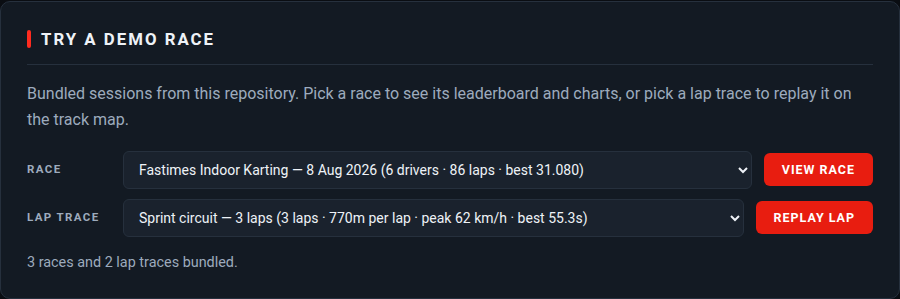
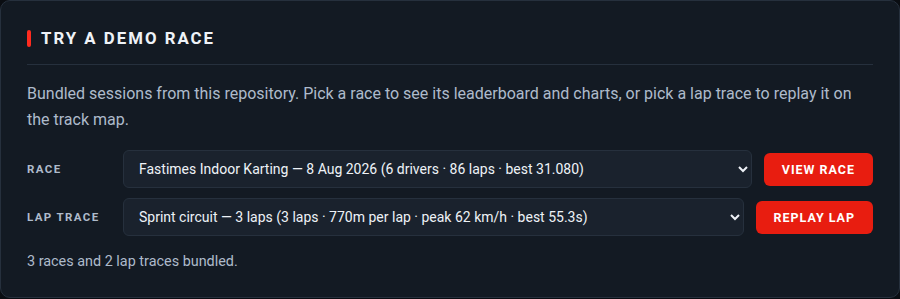
fix(ui): raise small-text legibility in the dark theme
A review pass on the rendered page flagged the smallest text as marginal.

- Chart axis ticks 10px to 11px and chart legends 12px to 13px; the 60px
  left margin still fits the widest tick label.
- Secondary text lightened to #aebbcb, taking it from 7.5:1 to 9.0:1 on a
  card surface and 10.0:1 on the page background.
- Leaderboard values 0.88rem to 0.92rem and a slightly larger tagline.

diff --git a/src/ui/charts.js b/src/ui/charts.js
@@ -254,7 +254,7 @@ function renderLapTraceChart(container, session, stats, colors) {
     const legendText = document.createElementNS('http://www.w3.org/2000/svg', 'text');
     legendText.setAttribute('x', legendX + 15);
     legendText.setAttribute('y', legendY + 5);
-    legendText.setAttribute('font-size', '12px');
+    legendText.setAttribute('font-size', '13px');
     legendText.classList.add('chart-legend-label');
     legendText.textContent = driver;
     svg.appendChild(legendText);
@@ -269,7 +269,7 @@ function renderLapTraceChart(container, session, stats, colors) {
      text.setAttribute('x', margin.left - 5);
      text.setAttribute('y', y + 4);
      text.setAttribute('text-anchor', 'end');
-     text.setAttribute('font-size', '10px');
+     text.setAttribute('font-size', '11px');
      text.classList.add('chart-tick');
      text.textContent = formatTime(t);
      svg.appendChild(text);
@@ -284,7 +284,7 @@ function renderLapTraceChart(container, session, stats, colors) {
      text.setAttribute('x', x);
      text.setAttribute('y', margin.top + chartHeight + 15);
      text.setAttribute('text-anchor', 'middle');
-     text.setAttribute('font-size', '10px');
+     text.setAttribute('font-size', '11px');
      text.classList.add('chart-tick');
      text.textContent = idx + 1;
      svg.appendChild(text);
@@ -466,7 +466,7 @@ function renderSectorDeltaChart(container, session, stats, driverA, driverB) {
      text.setAttribute('x', margin.left - 5);
      text.setAttribute('y', y + 4);
      text.setAttribute('text-anchor', 'end');
-     text.setAttribute('font-size', '10px');
+     text.setAttribute('font-size', '11px');
      text.classList.add('chart-tick');
      text.textContent = (val > 0 ? '+' : '') + Math.round(val) + 'ms';
      svg.appendChild(text);

diff --git a/src/styles/style.css b/src/styles/style.css
@@ -18,7 +18,7 @@
 
     /* Text */
     --text-color: #eef2f7;
-    --secondary-text-color: #9dabbd;
+    --secondary-text-color: #aebbcb;
 
     /* Racing red drives every primary action. The bright tone is used for
        accents and text, the deeper one for filled buttons, so white button
@@ -125,7 +125,7 @@ header h1 {
     position: relative;
     margin: 12px auto 0;
     max-width: 620px;
-    font-size: 1rem;
+    font-size: 1.05rem;
     color: var(--secondary-text-color);
 }
 
@@ -408,7 +408,7 @@ button:disabled {
     width: 100%;
     border-collapse: collapse;
     margin-bottom: 20px;
-    font-size: 0.88rem;
+    font-size: 0.92rem;
 }
 
 .leaderboard-table th,

diff --git a/tests/styles.spec.js b/tests/styles.spec.js
@@ -59,7 +59,7 @@ test.describe('Computed Styles', () => {
   test('footer has correct styling', async ({ page }) => {
     const footer = page.locator('footer');
     await expect(footer).toHaveCSS('background-color', 'rgb(7, 10, 14)');
-    await expect(footer).toHaveCSS('color', 'rgb(157, 171, 189)'); // --secondary-text-color
+    await expect(footer).toHaveCSS('color', 'rgb(174, 187, 203)'); // --secondary-text-color
     await expect(footer).toHaveCSS('text-align', 'center');
   });
 
